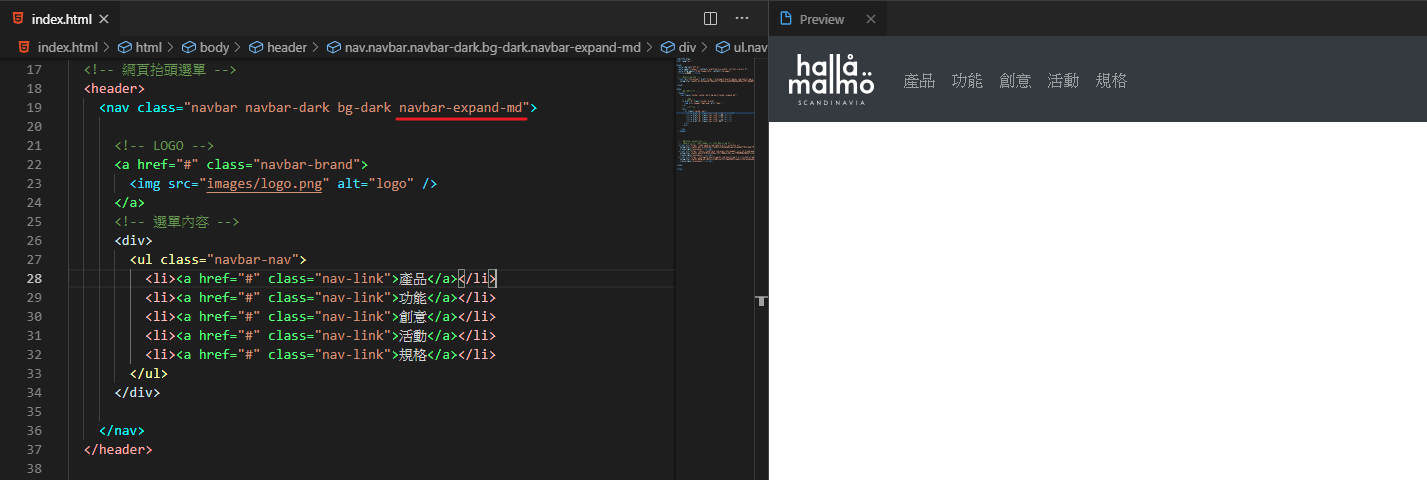
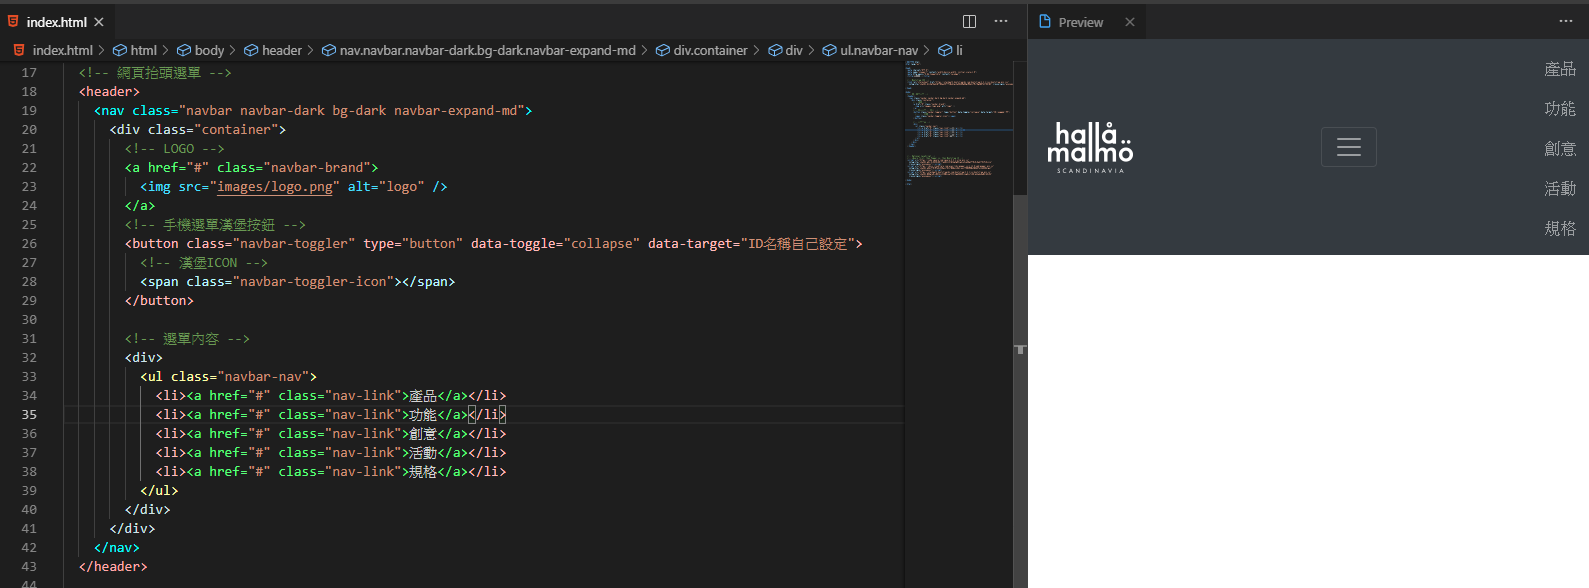
GitBook: [master] 2 pages and 5 assets modified

Changed region(s): [[0.0, 0.0, 1.0, 1.0], [0.9559, 0.1562, 0.9867, 0.1875]]

diff --git a/xuan-dan-dao-hang-lie.md b/xuan-dan-dao-hang-lie.md
@@ -8,7 +8,7 @@
 
 ### \`\`[Bootstrap的內建選單](https://bootstrap.hexschool.com/docs/4.2/components/navbar/)
 
-![](.gitbook/assets/image%20%2816%29.png)
+![](.gitbook/assets/image%20%2817%29.png)
 
 ### 置入LOGO
 
@@ -44,7 +44,7 @@
 <nav class="navber navbar-dark bg-dark">
 ```
 
-![](.gitbook/assets/image%20%2817%29.png)
+![](.gitbook/assets/image%20%2818%29.png)
 
 > 將Bootstrap 標籤套入HTML
 
@@ -79,7 +79,7 @@
 <nav class="navbar navbar-dark bg-dark navbar-expand-md">
 ```
 
-![](.gitbook/assets/image%20%2815%29.png)
+![](.gitbook/assets/image%20%2816%29.png)
 
 加入 **`<div class="container">  </div>`** 包住NAV導覽列，讓導覽列左右兩邊出現空間
 
@@ -102,7 +102,7 @@
 * **`navbar-toggler` 就是一個告訴選單要做切換的動作**
 * **`button`**告訴瀏覽器 type類型是**`button`**按鈕類型
 * **`data-toggle`**是指事件觸發，JavaScript用的，**`data-toggle`**後面指定觸發的形式要怎麼顯示，有可能是tab\(頁籤\)、dropdown\(下拉\)形式，我們目前網頁用**`collapse`**\(摺疊\)形式。
-* **`data-target`** 定義你的按鈕要對應的對象。
+* **`data-target`** 定義你的按鈕要對應的對象，ID名稱自己設定。
 
 ![&#x4E0B;&#x62C9;&#x9078;&#x55AE;&#x5F62;&#x5F0F;](.gitbook/assets/a08.jpg)
 
@@ -111,6 +111,8 @@
 
 
 設定好漢堡選單類型後，要再加入漢堡ICON，讓摺疊選單可以顯示出來
+
+![](.gitbook/assets/image%20%2815%29.png)
 
 ```markup
  <span class="navbar-toggler-icon"></span>

diff --git a/bootstrap-jian-li-wang-ye-kuang-jia-bu-5c4028-layout/bootstrap-4-grid-system-1.md b/bootstrap-jian-li-wang-ye-kuang-jia-bu-5c4028-layout/bootstrap-4-grid-system-1.md
@@ -16,7 +16,7 @@ Bootstrap提供的格線系統，也是一樣的概念，將版面區分成 `col
 
 container是Bootstrap網格系統佈局使用的容器，也是最根本的排版元素，非常重要，使用時會因應每個響應式斷點來更改寬度。
 
-![](../.gitbook/assets/image%20%2818%29.png)
+![](../.gitbook/assets/image%20%2819%29.png)
 
 ```markup
  <!-- col -->
